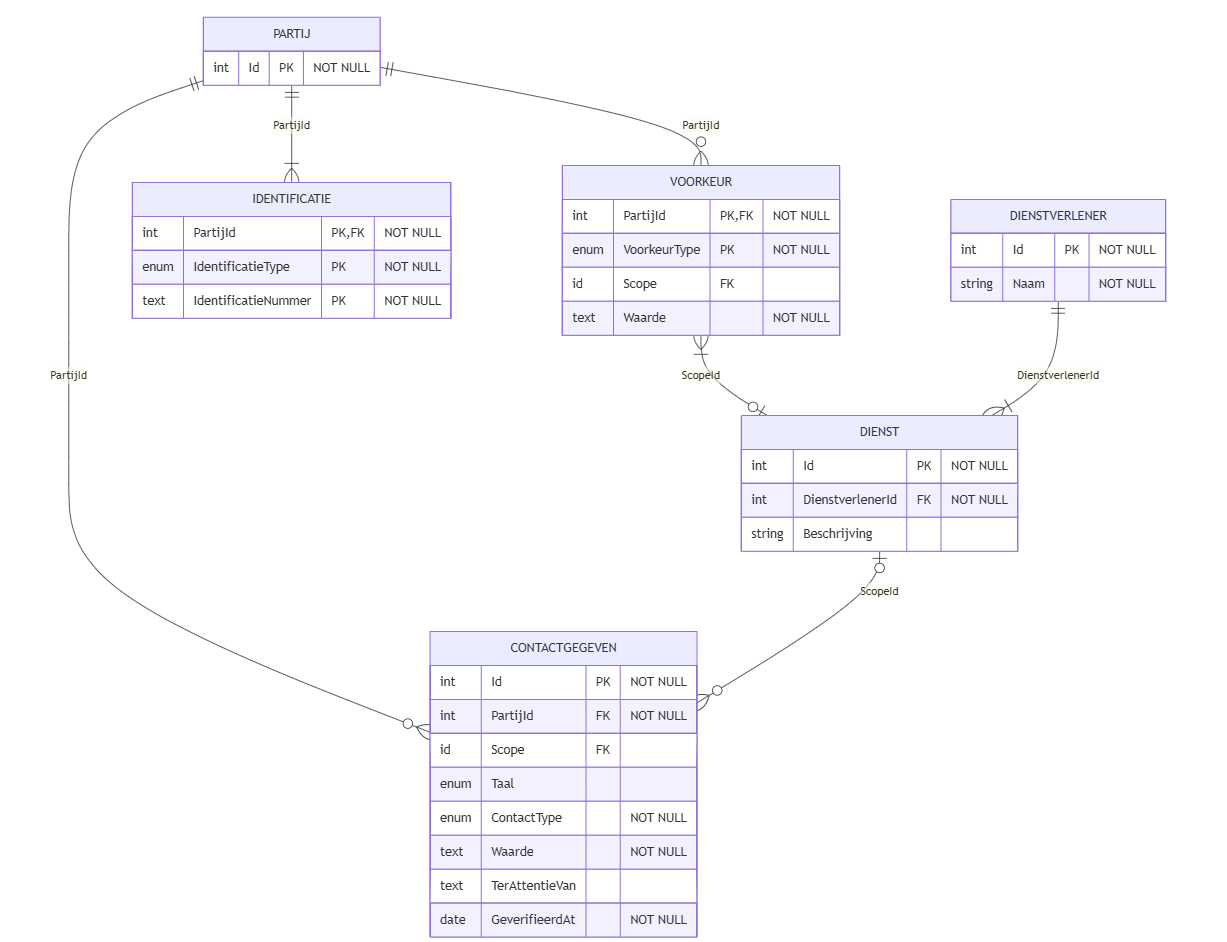
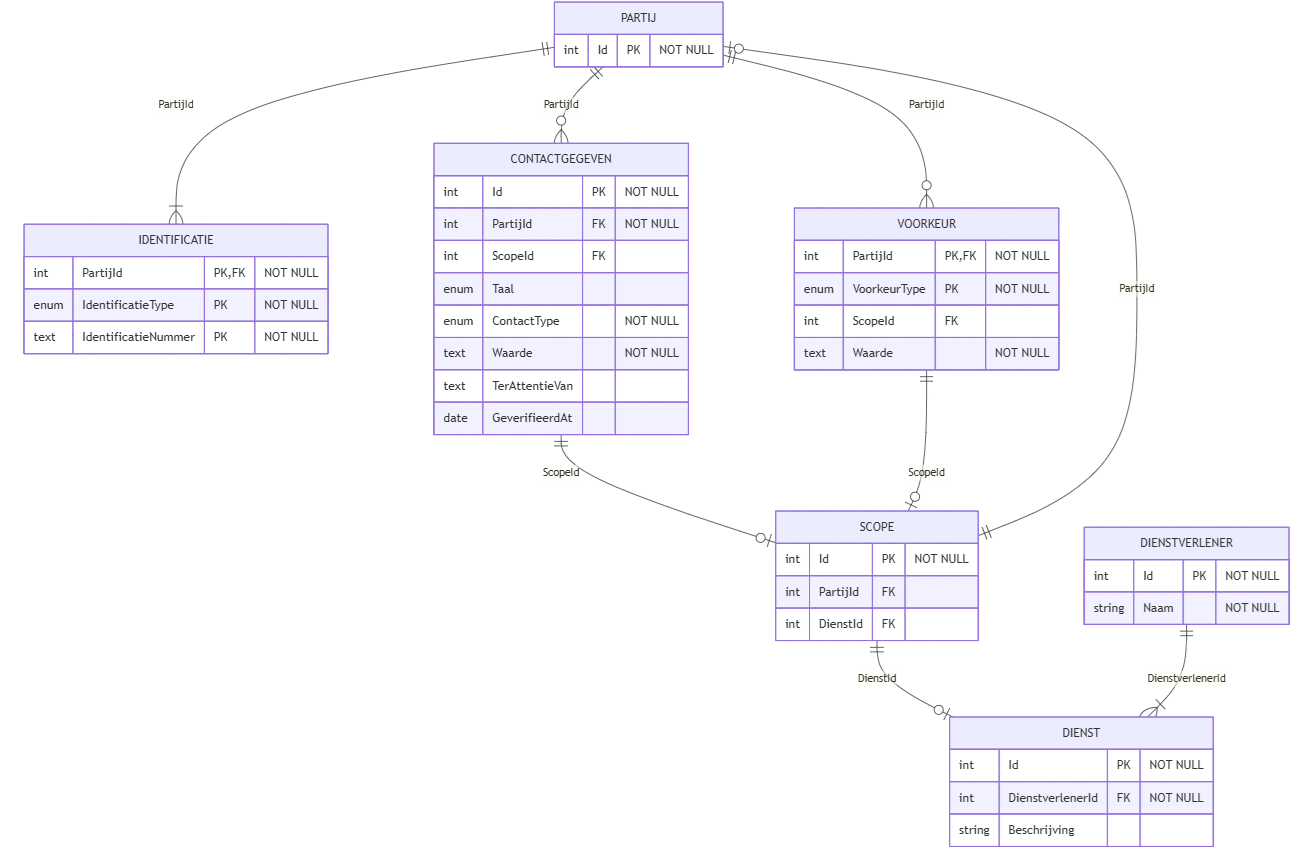
Updates

diff --git a/Docs/structurizr/profielservicedocs/08-data.md b/Docs/structurizr/profielservicedocs/08-data.md
@@ -4,12 +4,12 @@
 
 Het gegevensmodel van de ProfielService is opgebouwd rond de entiteiten **PARTIJ** en **CONTACTGEGEVEN**.
 
-1. **PARTIJ** is de basis van een natuurlijke persoon of rechtspersoon. Een partij kan één of meerdere identificaties hebben, zoals BSN, KVK, RSIN of andere vormen van identificatie.
-2. **CONTACTGEGEVEN** legt vast hoe en via welk kanaal een partij gecontacteerd kan worden door een dienst of organisatie.
+1. **PARTIJ** is de basis van een natuurlijke persoon of rechtspersoon. Een partij kan één of meerdere identificaties hebben, zoals BSN, KVK, RSIN of andere vormen van identificatie. Zowel personen als ondernemingen zijn een PARTIJ.
+2. **CONTACTGEGEVEN** legt vast hoe en via welk kanaal een partij gecontacteerd kan worden door een dienst of organisatie. Een contactgegeven kan optioneel gekoppeld worden aan een **SCOPE**, waarmee wordt vastgelegd voor welke onderneming (PARTIJ) en/of welke dienst van een dienstverlener (DIENST) het contactgegeven geldt.
 
-Hiermee kunnen burgers en ondernemers vastleggen hoe zij gecontacteerd willen worden, bijvoorbeeld via e-mail of telefoon.
+Hiermee kunnen burgers en ondernemers vastleggen hoe zij gecontacteerd willen worden, bijvoorbeeld via e-mail of telefoon. Een ondernemer die meerdere bedrijven beheert kan per bedrijf verschillende contactgegevens en voorkeuren opslaan, terwijl het bedrijf (als PARTIJ) slechts één keer in de database voorkomt.
 
-Ter ondersteuning van deze kernfunctionaliteit zijn vier aanvullende entiteiten toegevoegd: **IDENTIFICATIE**, **VOORKEUR**, **DIENSTVERLENER** en **DIENSTVERLENER_AFDELING**.
+Ter ondersteuning van deze kernfunctionaliteit zijn vijf aanvullende entiteiten toegevoegd: **IDENTIFICATIE**, **VOORKEUR**, **SCOPE**, **DIENSTVERLENER** en **DIENST**.
 
 Hieronder volgt een tabel met de definities die wij hanteren voor deze entiteiten.
 
@@ -24,37 +24,75 @@ Hieronder volgt een tabel met de definities die wij hanteren voor deze entiteite
 
 #### CONTACTGEGEVEN
 
-| Attribuut          | Omschrijving                                                          |
-|--------------------|-----------------------------------------------------------------------|
-| **CONTACTGEGEVEN** |                                                                       |
-| Id                 | Unieke identificator van contactgegeven                               |
-| PartijId           | Identificator van de PARTIJ die eigenaar is van dit contactgegeven    |
-| ScopeId            | Verwijzing naar DIENST waarop de scope betrekking heeft               |
-| Taal               | De taalvoorkeur voor dit contactgegeven                               |
-| ContactType        | Het soort contactgegeven: e-mail of (mobiel) telefoonnummer           |
-| Waarde             | De opgegeven contactwaarde (bijv. mailadres)                          |
-| TerAttentieVan     | Aanhef die gebruikt kan worden bij het gebruik van dit contactgegeven |
-| GeverifieerdAt     | Datum waarop de verificatiestatus voor het laatst is gezet            |
+| Attribuut          | Omschrijving                                                               |
+|--------------------|----------------------------------------------------------------------------|
+| **CONTACTGEGEVEN** |                                                                            |
+| Id                 | Unieke identificator van contactgegeven                                    |
+| PartijId           | Identificator van de PARTIJ die eigenaar is van dit contactgegeven         |
+| ScopeId            | Optionele verwijzing naar SCOPE waarop dit contactgegeven betrekking heeft |
+| Taal               | De taalvoorkeur voor dit contactgegeven                                    |
+| ContactType        | Het soort contactgegeven: e-mail of (mobiel) telefoonnummer                |
+| Waarde             | De opgegeven contactwaarde (bijv. mailadres)                               |
+| TerAttentieVan     | Optionele override van de aanhef specifiek voor dit contactgegeven. Indien niet ingevuld wordt de standaard Aanhef voorkeur (VoorkeurType=Aanhef) gebruikt |
+| GeverifieerdAt     | Datum waarop de verificatiestatus voor het laatst is gezet                 |
 
 #### IDENTIFICATIE
 
 | Attribuut           | Omschrijving                                                                                       |
 |---------------------|----------------------------------------------------------------------------------------------------|
-| **DIENSTVERLENER**  |                                                                                                    |
+| **IDENTIFICATIE**   |                                                                                                    |
 | PartijId            | Identificator van de PARTIJ die eigenaar is van dit CONTACTGEGEVEN                                 |
 | IdentificatieType   | Wijze waarop PARTIJ uniek kan worden geïdentificeerd: BSN, KVK, RSIN of ander identificatiesysteem |
 | IdentificatieNummer | Nummer waarmee PARTIJ uniek identificeerbaar is binnen het opgegeven IdentificatieType             |
 
 #### VOORKEUR
 
-| Attribuut    | Omschrijving                                                    |
-|--------------|-----------------------------------------------------------------|
-| **VOORKEUR** |                                                                 |
-| PartijId     | Verwijzing naar de PARTIJ waarvoor de voorkeur geldt            |
-| VoorkeurType | Het type voorkeur (enum), bijvoorbeeld taal of communicatievorm |
-| ScopeId      | Verwijzing naar DIENST waarop de scope betrekking heeft         |
-| Waarde       | De waarde van de voorkeur, afhankelijk van het VoorkeurType     |
+| Attribuut     | Omschrijving                                                                                              |
+|---------------|-----------------------------------------------------------------------------------------------------------|
+| **VOORKEUR** |                                                                            |
+| PartijId     | Verwijzing naar de PARTIJ waarvoor de voorkeur geldt                        |
+| VoorkeurType | Het type voorkeur (enum), bijvoorbeeld taal of communicatievorm             |
+| ScopeId      | Optionele verwijzing naar SCOPE waarop deze voorkeur betrekking heeft       |
+| Waarde       | De waarde van de voorkeur, afhankelijk van het VoorkeurType                 |
 
+##### VoorkeurTypes
+
+| VoorkeurType              | Omschrijving                                                        |
+|---------------------------|---------------------------------------------------------------------|
+| WebsiteTaal               | Standaard taalvoorkeur voor communicatie (bijv. "Nederlands")       |
+| MagGebeldWorden           | Of de partij gebeld mag worden                                      |
+| WebsiteThema              | Thema/weergavevoorkeur voor de website                              |
+| PostcodeInUwBuurt         | Postcode voor "berichten in uw buurt"                               |
+| ActueleOnderwerpVoorkeur  | Voorkeur voor actuele onderwerpen (bijv. subsidies, wetswijzigingen)|
+| Aanhef                    | Standaard aanhef voor de partij (bijv. "Dhr. Jansen")              |
+
+##### Voorkeuren met fallback naar contactgegeven
+
+Sommige voorkeuren dienen als standaardwaarde, die per contactgegeven overridden kan worden:
+
+| Voorkeur (standaard)      | Override op CONTACTGEGEVEN | Omschrijving                                                    |
+|---------------------------|----------------------------|-----------------------------------------------------------------|
+| Aanhef                    | TerAttentieVan             | Hoe de partij aangesproken wil worden                           |
+| WebsiteTaal               | Taal                       | In welke taal de partij gecontacteerd wil worden                |
+
+De fallback-logica voor dienstverleners:
+
+1. Als een **CONTACTGEGEVEN** een override-waarde heeft (`TerAttentieVan` of `Taal`), wordt die gebruikt voor dat specifieke contactgegeven.
+2. Als de override leeg is, wordt de standaard **voorkeur** van de partij gebruikt.
+
+Dit stelt dienstverleners in staat om standaardwaarden op te halen, terwijl de gebruiker per contactgegeven een afwijkende instelling kan maken.
+
+
+#### SCOPE
+
+| Attribuut   | Omschrijving                                                                                 |
+|-------------|----------------------------------------------------------------------------------------------|
+| **SCOPE**   |                                                                                              |
+| Id          | Unieke identificator van de scope                                                            |
+| PartijId    | Optionele verwijzing naar een PARTIJ (bijv. een onderneming) waarop de scope betrekking heeft |
+| DienstId  | Optionele verwijzing naar een DIENST waarop de scope betrekking heeft                         |
+
+Een SCOPE combineert de twee dimensies waarop een contactgegeven of voorkeur betrekking kan hebben: een onderneming (PARTIJ) en/of een dienst van een dienstverlener (DIENST). Beide velden zijn optioneel — een scope kan alleen een onderneming bevatten, alleen een dienst, of beide.
 
 #### DIENSTVERLENER
 
@@ -69,13 +107,13 @@ Hieronder volgt een tabel met de definities die wij hanteren voor deze entiteite
 
 | Attribuut        | Omschrijving                       |
 |------------------|------------------------------------|
-| **DIENST**       |                                    |
-| Id               | Unieke identificator van de dienst |
-| DienstverlenerId | Verwijzing naar DIENSTVERLENER     |
-| Beschrijving     | Beschrijving van de dienst         |
+| **DIENST**       |                                        |
+| Id               | Unieke identificator van de dienst     |
+| DienstverlenerId | Verwijzing naar DIENSTVERLENER           |
+| Beschrijving     | Beschrijving van de dienst             |
 
 
-Het onderstaande diagram geeft de structuur van het gegevensmodel weer, inclusief de relaties tussen PARTIJ, VOORKEUR, CONTACTGEGEVEN, DIENSTVERLENER, en DIENST.
+Het onderstaande diagram geeft de structuur van het gegevensmodel weer, inclusief de relaties tussen PARTIJ, VOORKEUR, CONTACTGEGEVEN, SCOPE, DIENSTVERLENER en DIENST.
 
 ![Gegevensmodel](./images/ArchitectuurProfielService/Gegevensmodel.png "Gegevensmodel")
 
@@ -87,27 +125,34 @@ Het onderstaande diagram geeft de structuur van het gegevensmodel weer, inclusie
             int Id PK "NOT NULL"
         }
 
+        IDENTIFICATIE {
+            int PartijId PK,FK "NOT NULL"
+            enum IdentificatieType PK "NOT NULL"
+            text IdentificatieNummer PK "NOT NULL"
+        }
+
         CONTACTGEGEVEN {
             int Id PK "NOT NULL"
             int PartijId FK "NOT NULL"
-            id Scope FK ""
+            int ScopeId FK ""
             enum Taal
             enum ContactType "NOT NULL"
             text Waarde "NOT NULL"
-            bool IsGeverifieerd "NOT NULL"
-            date GeverifieerdAt "NOT NULL"
+            text TerAttentieVan
+            date GeverifieerdAt
         }
 
         VOORKEUR {
             int PartijId PK,FK "NOT NULL"
             enum VoorkeurType PK "NOT NULL"
+            int ScopeId FK ""
             text Waarde "NOT NULL"
         }
 
-        IDENTIFICATIE {
-            int PartijId PK,FK "NOT NULL"
-            enum IdentificatieType PK "NOT NULL"
-            text IdentificatieNummer PK "NOT NULL"
+        SCOPE {
+            int Id PK "NOT NULL"
+            int PartijId FK ""
+            int DienstId FK ""
         }
 
         DIENSTVERLENER {
@@ -115,7 +160,7 @@ Het onderstaande diagram geeft de structuur van het gegevensmodel weer, inclusie
             string Naam "NOT NULL"
         }
 
-        DIENSTVERLENER_AFDELING {
+        DIENST {
             int Id PK "NOT NULL"
             int DienstverlenerId FK "NOT NULL"
             string Beschrijving ""
@@ -123,10 +168,13 @@ Het onderstaande diagram geeft de structuur van het gegevensmodel weer, inclusie
 
         %% Relationships
         PARTIJ ||--|{ IDENTIFICATIE : "PartijId"
-        PARTIJ ||--o{ VOORKEUR : "PartijId"
         PARTIJ ||--o{ CONTACTGEGEVEN : "PartijId"
-        DIENSTVERLENER_AFDELING ||--o{ CONTACTGEGEVEN : "ScopeId"
-        DIENSTVERLENER ||--|{ DIENSTVERLENER_AFDELING : "DienstverlenerId"
+        PARTIJ ||--o{ VOORKEUR : "PartijId"
+        CONTACTGEGEVEN ||--o| SCOPE : "ScopeId"
+        VOORKEUR ||--o| SCOPE : "ScopeId"
+        SCOPE ||--o| PARTIJ : "PartijId"
+        SCOPE ||--o| DIENST : "DienstId"
+        DIENSTVERLENER ||--|{ DIENST : "DienstverlenerId"
 
 </details>
 
@@ -137,65 +185,112 @@ Wanneer de profiel-service wordt bevraagd, kan onderstaand DTO als response word
 **YAML**
 
 ```yaml
-id: 1
-identifier_type: BSN
-identifier_id: "123456789"
-contactvoorkeuren:
+partijId: 1
+identificaties:
+  - identificatieType: BSN
+    identificatieNummer: "123456789"
+contactgegevens:
   - id: 101
-    type: EMAIL
-    waarde: rvo-afdeling@bedrijf.nl
-    scope: ZAKELIJK
-    voor_partij_id: 1001
-    dienst_type: "0000000123"
-    geverifieerd_at: "2025-11-03T12:00:00Z"
+    type: Email
+    waarde: rvo-dienst@bedrijf.nl
+    taal: Nederlands
+    terAttentieVan: null
+    isGeverifieerd: true
+    scope:
+      partij:
+        identificatieType: KVK
+        identificatieNummer: "12345678"
+      dienst:
+        id: 10
+        beschrijving: "Belastingen"
 
   - id: 102
-    type: POST
-    waarde:
-      ter_attentie_van: "Robbert"
-      straat: Wilhelminastraat
-      huisnummer: 52
-      postcode: "2215PA"
-      plaats: Den Haag
-      land: Nederland
-    scope: ZAKELIJK
-    voor_partij_id: 1001
-    dienst_type: "0000000456"
-    geverifieerd_at: "2025-11-03T12:00:00Z"
+    type: Email
+    waarde: info@anderbedrijf.nl
+    taal: Engels
+    terAttentieVan: "Robbert"
+    isGeverifieerd: false
+    scope:
+      partij:
+        identificatieType: KVK
+        identificatieNummer: "87654321"
+      dienst: null
+
+  - id: 103
+    type: Telefoonnummer
+    waarde: "+31612345678"
+    taal: null
+    terAttentieVan: null
+    isGeverifieerd: false
+    scope: null
+voorkeuren:
+  - id: 201
+    voorkeurType: WebsiteTaal
+    waarde: "Nederlands"
+    scope: null
 ```
 
 **JSON**
 
 ```json
 {
-  "id": 1,
-  "identifier_type": "BSN",
-  "identifier_id": "123456789",
-  "contactvoorkeuren": [
+  "partijId": 1,
+  "identificaties": [
+    {
+      "identificatieType": "BSN",
+      "identificatieNummer": "123456789"
+    }
+  ],
+  "contactgegevens": [
     {
       "id": 101,
-      "type": "EMAIL",
-      "waarde": "rvo-afdeling@bedrijf.nl",
-      "scope": "ZAKELIJK",
-      "voor_partij_id": 1001,
-      "dienst_type": "0000000123",
-      "geverifieerd_at": "2025-11-03T12:00:00Z"
+      "type": "Email",
+      "waarde": "rvo-dienst@bedrijf.nl",
+      "taal": "Nederlands",
+      "terAttentieVan": null,
+      "isGeverifieerd": true,
+      "scope": {
+        "partij": {
+          "identificatieType": "KVK",
+          "identificatieNummer": "12345678"
+        },
+        "dienst": {
+          "id": 10,
+          "beschrijving": "Belastingen"
+        }
+      }
     },
     {
       "id": 102,
-      "type": "POST",
-      "waarde": {
-        "ter_attentie_van": "Robbert",
-        "straat": "Wilhelminastraat",
-        "huisnummer": 52,
-        "postcode": "2215PA",
-        "plaats": "Den Haag",
-        "land": "Nederland"
-      },
-      "scope": "ZAKELIJK",
-      "voor_partij_id": 1001,
-      "dienst_type": "0000000456",
-      "geverifieerd_at": "2025-11-03T12:00:00Z"
+      "type": "Email",
+      "waarde": "info@anderbedrijf.nl",
+      "taal": "Engels",
+      "terAttentieVan": "Robbert",
+      "isGeverifieerd": false,
+      "scope": {
+        "partij": {
+          "identificatieType": "KVK",
+          "identificatieNummer": "87654321"
+        },
+        "dienst": null
+      }
+    },
+    {
+      "id": 103,
+      "type": "Telefoonnummer",
+      "waarde": "+31612345678",
+      "taal": null,
+      "terAttentieVan": null,
+      "isGeverifieerd": false,
+      "scope": null
+    }
+  ],
+  "voorkeuren": [
+    {
+      "id": 201,
+      "voorkeurType": "WebsiteTaal",
+      "waarde": "Nederlands",
+      "scope": null
     }
   ]
 }
